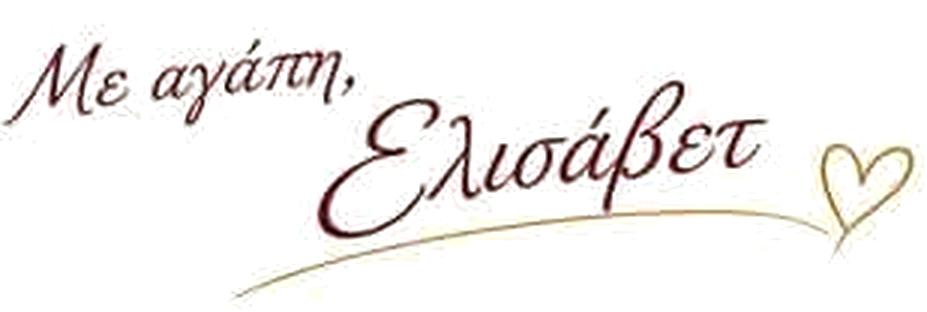
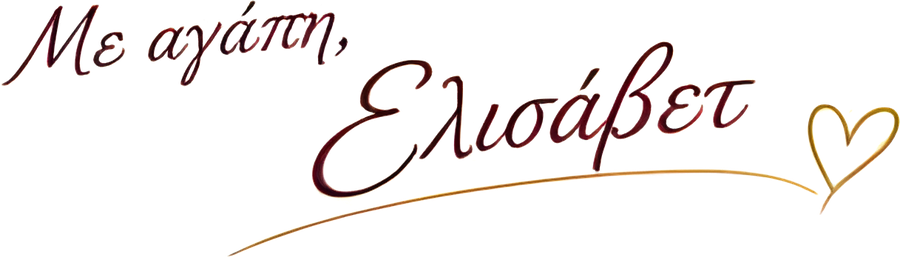
Sharpen placeholder images with 4x AI upscaling
Hero, category cards, about photo, logo and signature were small crops
from the design mockup and looked pixelated. Upscaled them 4x with
Real-ESRGAN. Real photos will still look better.

Claude-Session: https://claude.ai/code/session_01YafLJg1hpLhiqhknCA7mAi

Changed region(s): [[0.0, 0.0, 1.0, 0.9961]]

diff --git a/gia-emena.html b/gia-emena.html
@@ -59,7 +59,7 @@
         <p>Είμαι παιδαγωγός και η δημιουργικότητα και η φαντασία είναι αναπόσπαστο κομμάτι της ζωής μου! Αγαπώ να δίνω μορφή σε μικρές ιδέες και να δημιουργώ πράγματα που φέρνουν χαμόγελα.</p>
         <p>Κάπως έτσι ξεκίνησα να φτιάχνω προσωποποιημένα bobo μπαλόνια και γεννήθηκε η Balloona: από την επιθυμία μου να μετατρέπω τη φαντασία σε ξεχωριστά δώρα, γεμάτα αγάπη και φροντίδα.</p>
         <p>Κάθε δημιουργία έχει τη δική της μικρή ιστορία — και χαίρομαι που μπορώ να γίνομαι κομμάτι της δικής σας!</p>
-        <div class="signature"><img src="images/signature.png" alt="Με αγάπη, Ελισάβετ" width="300" height="101"></div>
+        <div class="signature"><img src="images/signature.png" alt="Με αγάπη, Ελισάβετ" width="300" height="86"></div>
       </div>
     </div>
   </div>

diff --git a/index.html b/index.html
@@ -87,7 +87,7 @@
         <p>Είμαι παιδαγωγός και η δημιουργικότητα και η φαντασία είναι αναπόσπαστο κομμάτι της ζωής μου! Αγαπώ να δίνω μορφή σε μικρές ιδέες και να δημιουργώ πράγματα που φέρνουν χαμόγελα.</p>
         <p>Κάπως έτσι ξεκίνησα να φτιάχνω προσωποποιημένα bobo μπαλόνια και γεννήθηκε η Balloona: από την επιθυμία μου να μετατρέπω τη φαντασία σε ξεχωριστά δώρα, γεμάτα αγάπη και φροντίδα.</p>
         <p>Κάθε δημιουργία έχει τη δική της μικρή ιστορία — και χαίρομαι που μπορώ να γίνομαι κομμάτι της δικής σας!</p>
-        <div class="signature"><img src="images/signature.png" alt="Με αγάπη, Ελισάβετ" width="300" height="101"></div>
+        <div class="signature"><img src="images/signature.png" alt="Με αγάπη, Ελισάβετ" width="300" height="86"></div>
       </div>
     </div>
   </div>
